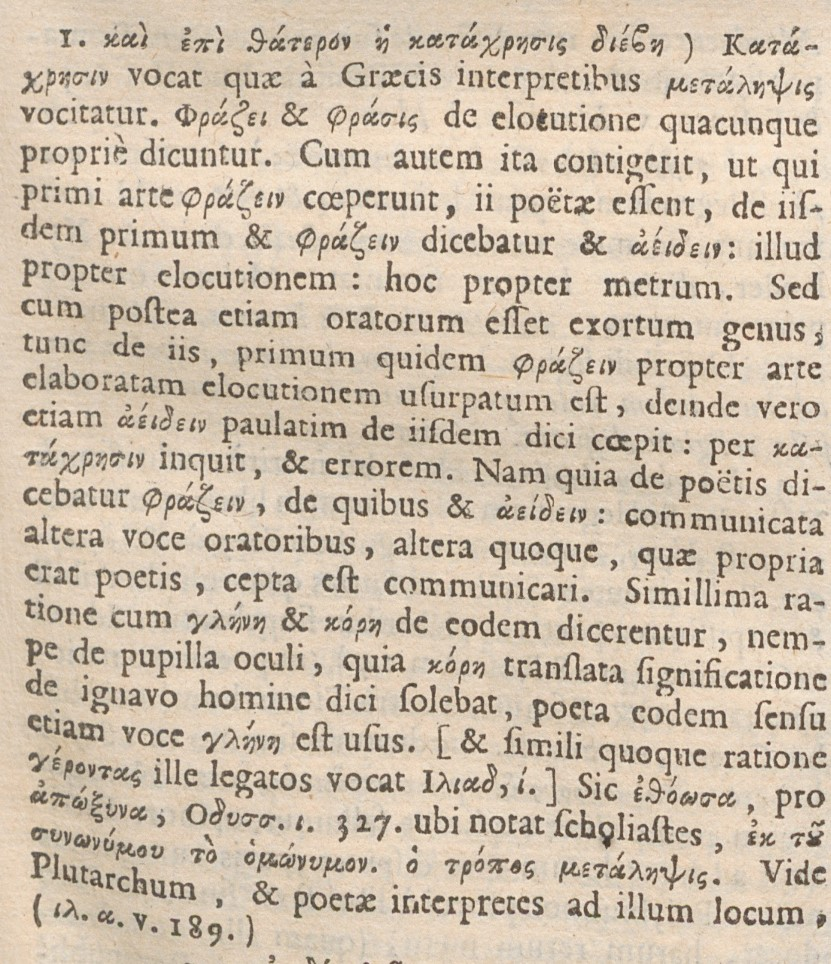
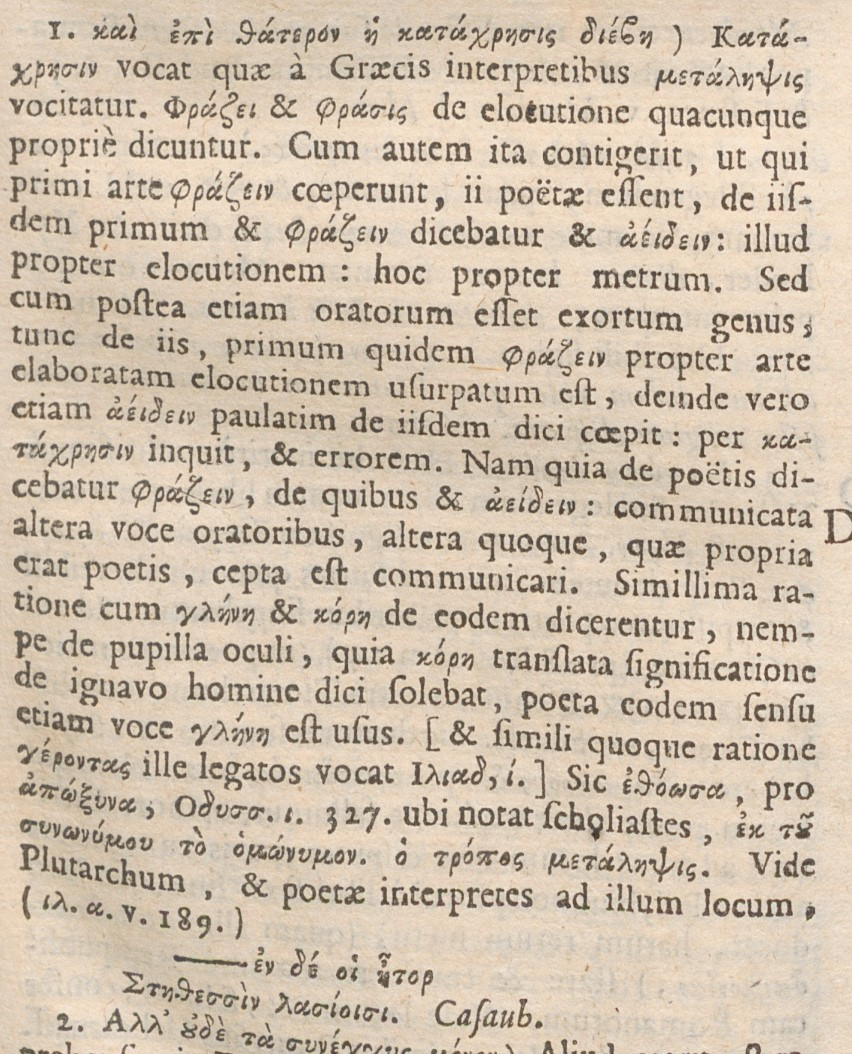
Added 'notes' file and fixed image for 1.2.6 Comment 10

diff --git a/Casaubon_Commentary.md b/Casaubon_Commentary.md
@@ -86,7 +86,7 @@
 - Lemma: Αρα γὰρ οὐδ᾽ ὁ λόγος
 - Text: λόγον hic vocat, quam modo φράσιν appellabat. An (inquit) dicet Eratosthenes, vel nullum esse commune genus, quo comprehendantur legibus adstricta, et soluta oratio? An hoc quidem non dicet, sed negabit orationem in generis significatione acceptam ad rhetoricam pertinere; Λογον, φράσιν, ἀρετὴν λόγου, pro eodem ponit.
 - Translation:
-- Summary: Casaubon is commenting on the word use of λόγος, questioning how it appears interchangeable with the word φράσις here. (Somewhat of a debatable point in my opinion.)
+- Summary: Casaubon is commenting on the word use of λόγος, questioning how it appears interchangeable with the word φράσις here. (Somewhat of a debatable point in my opinion, but important to understand the point Strabo is trying to make.)
 
 ### Comment 3
 - Image: [link](images/1_2_6_Comment_3.jpg)
@@ -131,36 +131,38 @@
 ### Comment 8
 - Image: [link](images/1_2_6_Comment_8.jpg)
 - Manuscript Citation: [Volume I, page 84](https://www.e-rara.ch/zut/content/pageview/10527248), note No. 8
-- Lemma:
-- Text:
+- Lemma: Cum se ostentaret.
+- Text: Κατὰ τὰς ἐπιδείξεις, cum in publicum prodiret poëta, et carmen suum recitaret. notus est hujus vocis usus ex scriptoribus Graecis, interpres totum hunc locum ita convertit, sicuti et pleraque alia, ut mirum sit si quis ex ipsius verbis aliquid sententiae elicere potuerit, quod Strabonianum gustum prabeat. Quod ad Cadmum Phoenicem attinet, nota sunt quae de eo passim feruntur. sed adscribenda duxi Plinii verba, ut locus fieret illustrior. De poëmatum, inquit, origine magna quaestio est. ante Troianum bellum probantur fuisse. Prorsam orationem condere Pherecydes Syrus instituit, tempore Cyri regis. Historiam Cadmus Milesius. Haec ille lib. septimo capite LVI. ex quibus liquet,  non de litterarum inventore Cadmo, sed alio quodam auctorem loqui. cujus eodem meminit eulogio, libro quinto, capite 29. de Mileto Joniae urbe scribens. Hecataeus porro princeps Geographiam scribere aggressus est, ut supra indicavit Strabo. De raposodia vide quae annotavimus in Plutarchomericis. Xyland.
 - Translation:
-- Summary:
+- Summary: As this is lengthy, I will come back to it. NB: This note is not by Casaubon.
 
 ### Comment 9
 - Image: [link](images/1_2_6_Comment_9.jpg)
 - Manuscript Citation: [Volume I, page 84](https://www.e-rara.ch/zut/content/pageview/10527248), note No. 9
-- Lemma:
-- Text:
+- Lemma: τὸ ᾄδειν αὐτοῖς τὸ αὐτὸ
+- Text: Vox αὐτοῖς quid hic significet, quum sequatur, παρ᾽ ἐκείνοις non video. Itaque tollendam censeo. Casaub.
 - Translation:
-- Summary:
+- Summary: Casaubon thinks the text would make more sense without the word αὐτοῖς.
 
 ### Comment 10
 - Image: [link](images/1_2_6_Comment_10.jpg)
 - Manuscript Citation: [Volume I, page 85](https://www.e-rara.ch/zut/content/pageview/10527249), note No. 1
-- Lemma:
-- Text:
+- Lemma: καὶ ἐπὶ θάτερον ἡ κατάχρησις διέβη
+- Text: Κατάχρησιν vocat quae e Graecis interpretibus μετάληψις vocitatur. Φράζει et φράσις de elocutione quacunque proprie dicuntur. Cum autem ita contigerit, ut qui primi arte φράζειν coeperunt, ii poëtae essent, de iisdem primum et φράζειν dicebatur et ἀέιδειν: illud propter elocutionem: hoc propter metrum. Sed cum postea etiam oratorum esset exortum genus, tunc de iis, primum quidem φράζειν propter arte elaboratam elocutionem usurpatum est, deinde vero etiam ἀέιδειν paulatim de iisdem dici coepit: per κατάχρησιν inquit, et errorem. Nam quia de poëtis dicebatur φράζειν, de quibus et ἀέιδειν: communicata altera voce oratoribus, altera quoque, quae propria erat poetis, cepta est communicari. Simillima ratione cum γλήνη et κόρη de eodem dicerentur, nempe de pupilla oculi, quia κόρη translata significatione de ignavo homine dici solebat, poeta eodem sensu etiam voce γλήνη est usus.[et simili quoque ratione γέροντας ille legatos vocat Ιλιαδ, ί.] Sic ἐθόωσα, pro ἀπώξυνα, Οδυσσ. ι 327. ubi notat scholiastes, ἐκ τοῦ συνωνύμου τὸ ὁμώνυμον. ὁ τρόπος μετάληψις. Vide Plutarchum, et poetae interpretes ad illum locum (ιλ.α.v.189.)
+                      — ἐν δέ οἱ ἦτορ
+                    Στηθεσσὶν λασίοισι. Casaub.
 - Translation:
-- Summary:
+- Summary: Another sizable one, I'll come back to it.
 
 ## 4. Commentary on 10.3.9 (In Volume II)
 
 ### Comment 1
 - Image: [link](images/10_3_9_Comment_1.jpg)
 - Manuscript Citation: [Volume II, page 45](https://www.e-rara.ch/zut/content/pageview/10527945), note No. 1
-- Lemma:
-- Text:
+- Lemma: εὖ μὲν γὰρ εἴρηται
+- Text: Ex sententia Pythagorae relata ab Aeliano libro duodecimo cap. 59. duo sunt quae ab homine praestita Deo immortali eum assimilant, τὸ ἀληθεύειν et τὸ εὐεργετεῖν: quae sane ἀπόφανσις haud paullo melio est et elegantior tota ista disputatione Strabonis nostri: hoc est, hominis Stoicae sectae dediti, quae quid ab Epicuri dogmate differat, est ubi non facile dignoscas. Pertinet huc proverbium, homo homini Deus. (Vide Ciceronis orat. pro Ligario in fine.) Casaub.
 - Translation:
-- Summary:
+- Summary: Casaubon rejects Strabo's entire discourse on what activities bring humans closer to the divine, in favor of what he considers a much better and more elegant theory by Pythagoras, as preserved by Aelian.
 
 ### Comment 2
 - Image: [link](images/10_3_9_Comment_2.jpg)
